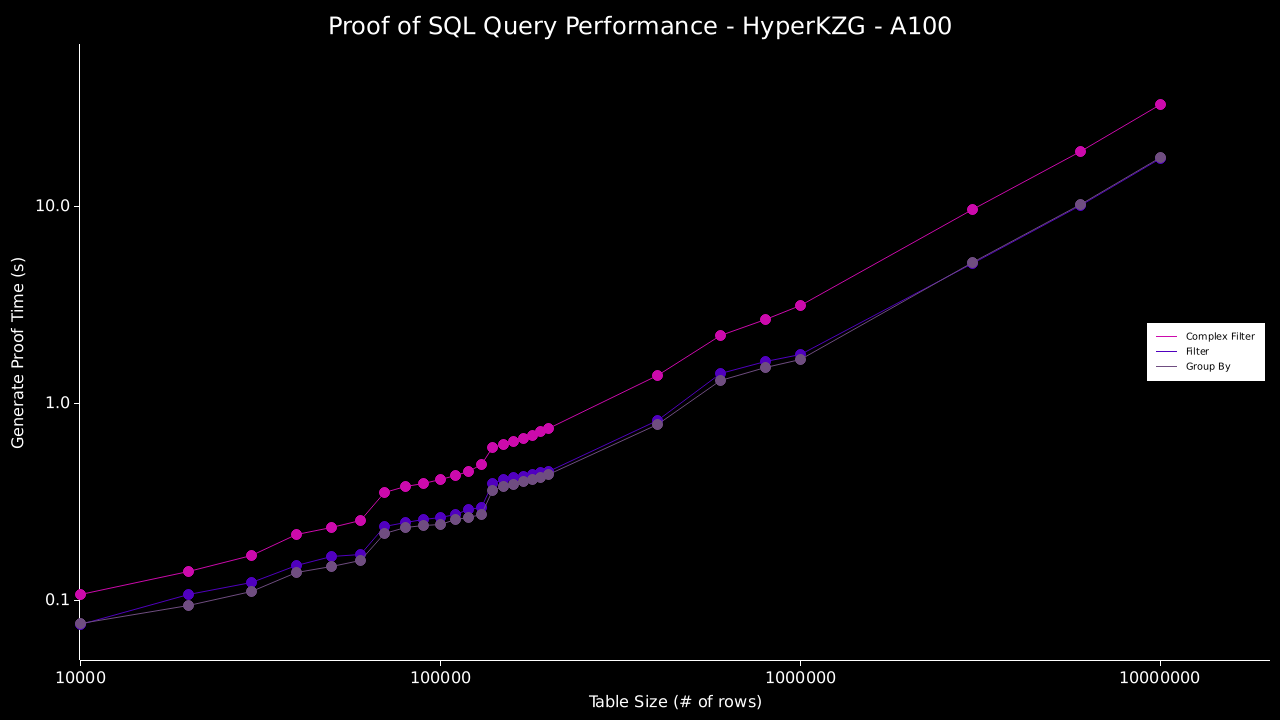
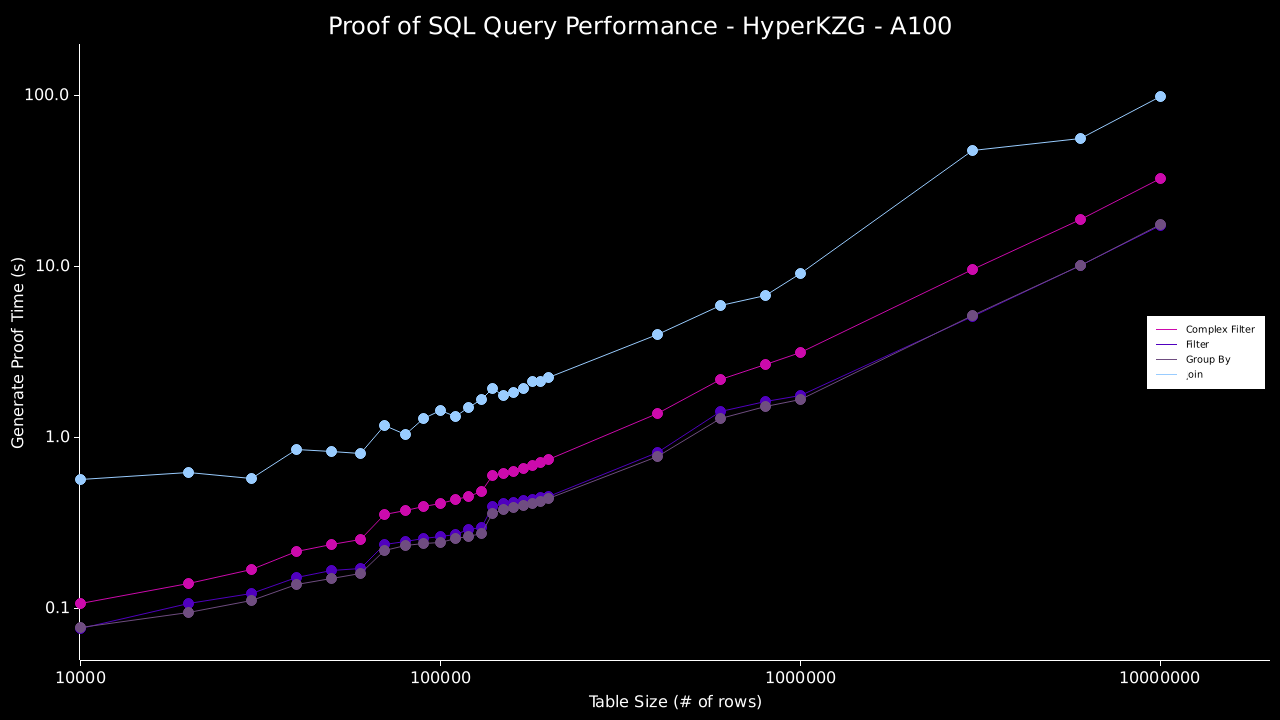
docs: add JOIN query benchmark results

diff --git a/crates/proof-of-sql/README.md b/crates/proof-of-sql/README.md
@@ -141,14 +141,11 @@ Then, we run the following 10 queries against these data, prove, and verify the 
 * Filter - `SELECT b FROM bench_table WHERE a = 0`
 * Complex Filter - `SELECT * FROM bench_table WHERE (((a = 0) AND (b = 1)) OR ((c = 'a') AND (d = 'b')))`
 * Group By - `SELECT SUM(a), COUNT(*) FROM bench_table WHERE a = 0 GROUP BY b`
+* Join - `SELECT table_a.column, table_b.column FROM table_a JOIN table_b on table_a.column=table_b.column`
 
 ### Results
 
-The results for the `HyperKZG` commitment scheme are shown in the graphs below for a single and multiple A100 machine. Broadly the results are:
-
-* A query against 200 thousand rows of data can be proven in sub-second time.
-* A query against 1 million rows of data can be proven in roughly 1 second.
-* Verification time is roughly 6ms across the board.
+The results for the `HyperKZG` commitment scheme are shown in the graphs below for a single and multiple A100 machine.
 
 <p align="center"><img src="https://raw.githubusercontent.com/spaceandtimelabs/sxt-proof-of-sql/main/docs/HyperKZG_A100_200k_2025.04.29.png" alt="Proof Of SQL Benchmarks (200k - A100)" width="50%"/><img src="https://raw.githubusercontent.com/spaceandtimelabs/sxt-proof-of-sql/main/docs/HyperKZG_multi_A100_200k_2025.04.29.png" alt="Proof Of SQL Benchmarks (200k - Multi-A100)" width="50%"/><img src="https://raw.githubusercontent.com/spaceandtimelabs/sxt-proof-of-sql/main/docs/HyperKZG_A100_2025.04.29.png" alt="Proof Of SQL Benchmarks (10m - A100)" width="50%"/><img src="https://raw.githubusercontent.com/spaceandtimelabs/sxt-proof-of-sql/main/docs/HyperKZG_multi_A100_2025.04.29.png" alt="Proof Of SQL Benchmarks (10m - Multi-A100)" width="50%"/></p>
 
